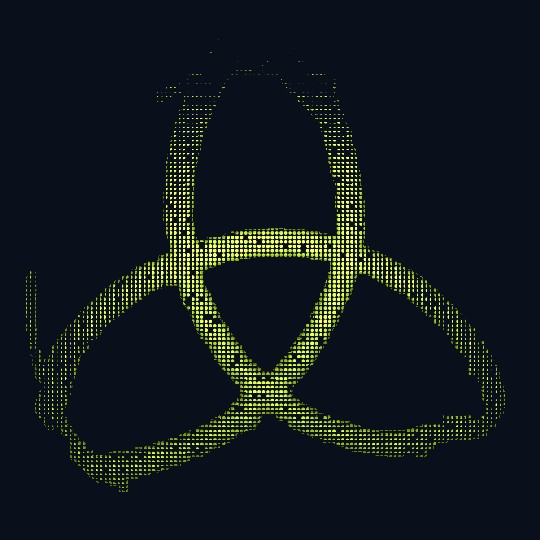
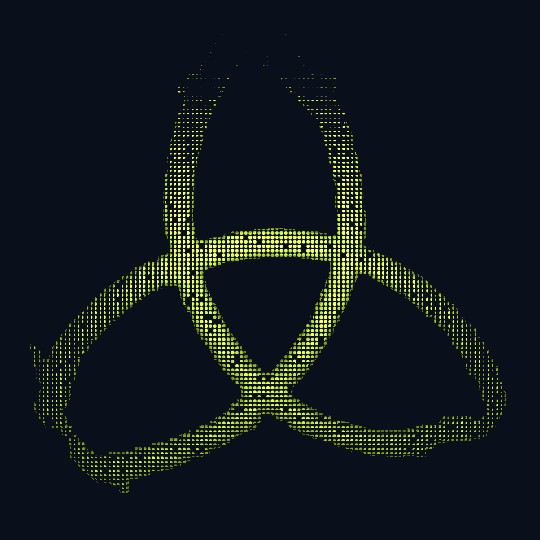
v5 W1: opening 7 removes the last ring strip, sync pxPerUnit to 231.16, ship offset 1
The 7 px opening (was 5) drops the 10 px wide ring strip at x 23..34 that
rendered as a stray dotted crescent on the far left: a 'no rings' violation,
worth -0.004 band_iou. Strand half width 13.04 px -> 231.16 px per unit -> a
770.5 px Swarm. Silhouette offset 1 px shipped (the measured dot-inset
compensation); larger offsets lose by dilating the enclosed holes.

Defaults in tools/knot-iou.py now equal the shipped bake, so 'trace --out <asset>'
reproduces it with no flags. Stills re-rendered for all four states: rest and
progress 1.0 are byte-identical.

Measured: rest band_iou 0.7218 (raw crop), 0.7539 with s2's ring cut, 0.8276
against its own trace, blur6 0.5327. Ring-free ceiling 50,416/58,246 = 0.8656.

Changed region(s): [[0.0593, 0.1778, 0.9481, 0.9185], [0.0296, 0.5037, 0.0889, 0.6222]]

diff --git a/nexuslink.hud/v5/kit/Knot.qml b/nexuslink.hud/v5/kit/Knot.qml
@@ -46,7 +46,7 @@ Item {
     // nothing is painted outside the knot and nothing needs clipping.
     // KEEP IN SYNC: this number is what `tools/knot-iou.py trace` prints for the
     // shipped asset. A 1.5 percent mismatch costs ~0.09 band_iou (measured).
-    readonly property real pxPerUnit: 230.48
+    readonly property real pxPerUnit: 231.16
     readonly property real swarmSize: size * pxPerUnit / Tokens.knotDiameter / 0.30
 
     implicitWidth: size

diff --git a/tools/knot-iou.py b/tools/knot-iou.py
@@ -234,7 +234,7 @@ def opening(mask, size):
     return np.array(im) > 127
 
 
-def trace_mask(lum, thr=0.10, close=9, open_px=5, r_max=276.0, min_area=2000):
+def trace_mask(lum, thr=0.10, close=9, open_px=7, r_max=276.0, min_area=2000):
     """The knot's strand band from the s2 crop, without s2's outer dot ring.
 
     s2's knot carries a faint decorative ring of dots outside the lobes (class
@@ -303,7 +303,7 @@ def trace_stats(mask):
 
 
 def bake_sdf(lum, tube_px, offset_px, out_path=None, size=SDF_SIZE,
-             thr=0.10, close=9, open_px=5, r_max=276.0, min_area=2000):
+             thr=0.10, close=9, open_px=7, r_max=276.0, min_area=2000):
     """Bake the centre-line distance texture Swarm marches.
 
     R = (tube_px - offset_px - s_in) / px_per_unit, clipped to 0..SDF_RANGE
@@ -589,11 +589,11 @@ def main():
     ap.add_argument("--out", help="trace: SDF png to write (default: print only)")
     ap.add_argument("--tube-px", type=float, default=None,
                     help="trace: strand half width in px (default: ridge median)")
-    ap.add_argument("--offset-px", type=float, default=0.0,
+    ap.add_argument("--offset-px", type=float, default=1.0,
                     help="trace: dilate the silhouette by this many px")
     ap.add_argument("--trace-thr", type=float, default=0.10)
     ap.add_argument("--trace-close", type=int, default=9)
-    ap.add_argument("--open-px", type=int, default=5,
+    ap.add_argument("--open-px", type=int, default=7,
                     help="trace: opening kernel, removes the thin ring arcs")
     ap.add_argument("--r-max", type=float, default=276.0)
     ap.add_argument("--mask-out", help="trace: write the traced band mask (png)")

diff --git a/nexuslink.hud/v5/docs/knot-iou.md b/nexuslink.hud/v5/docs/knot-iou.md
@@ -9,11 +9,11 @@ Summary of the numbers (all reproduced by one script, commands at the end):
 
 | what | value |
 |---|---|
-| the shipped asset's own silhouette (level set) vs the s2 crop band | **0.8280** |
-| the most any ring-free render can score on this crop | **0.8836** |
-| render at rest, measured still | **0.7260** raw crop / 0.7582 with s2's ring cut / 0.8159 against its own trace |
-| render `silhouette_iou_blur6` (the C2 verifier's meter) | 0.5481 |
-| dot coverage at rest | 0.0626 against the reference's 0.1153 |
+| the shipped asset's own level set vs the s2 crop band | **0.8149** |
+| the most any ring-free render can score on this crop | **0.8656** |
+| render at rest, measured still | **0.7218** raw crop / 0.7539 with s2's ring cut / 0.8276 against its own trace |
+| render `silhouette_iou_blur6` (the C2 verifier's meter) | 0.5327 |
+| dot coverage at rest | 0.0623 against the reference's 0.1153 |
 
 ## Reference and crop
 
@@ -55,22 +55,22 @@ That is why this run re-traces the knot from the still, as the card says.
 
 1. `lum > 0.10`, then a 9 px closing: s2's dots (926 of them, median 14 px each)
    merge into continuous strand bands.
-2. A 5 px opening. s2's knot is not only the ribbon: its own README says the mark
-   is 9 filled pieces, **6 thick ribbon + 3 thin ring**, and the ring is dotted
-   about five times more sparsely. Its arcs are 2 to 8 px thick and the closing
-   attaches parts of them to the knot, so the opening drops them.
+2. A **7 px opening**. s2's knot is not only the ribbon: its own README says the
+   mark is 9 filled pieces, **6 thick ribbon + 3 thin ring**, and the ring is
+   dotted about five times more sparsely. Its arcs are 2 to 8 px thick and the
+   closing attaches parts of them to the knot, so the opening drops them. At 5 px
+   one 10 px wide ring strip survives on the far left (x 23..34, y 280..340) and
+   renders as a stray dotted crescent, which is a "no rings" violation; 7 px
+   removes it and costs 0.004 `band_iou`.
 3. A radial cut at r <= 276 px, the gap between the outermost lobe tip (260 px
    from the crop centre) and the ring beyond it.
-4. Components under **2,000 px** are dropped. One ring arc (1,043 px, at x 29..81,
-   y 153..269) is thick enough to survive the opening and sits detached on the
-   left; the knot itself is one 51,464 px blob, so the floor removes it without
-   touching the mark. Without that floor the arc renders as a stray dotted
-   crescent, which is a "no rings" violation.
+4. Components under 2,000 px (background grain) are dropped. The knot itself is a
+   single 50k px blob, so the floor never touches the mark.
 
-The result is a 51,464 px band: bbox x 23..506, y 9..493, perimeter 4,184 px,
-strand half width **13.00 px** (median signed distance on the medial ridge; the
-2A/P estimator says 24.6 px because crossings and lobe tips are thicker than a
-strand and inflate it, so the ridge number is the strand).
+The result is a 50,416 px band: bbox x 28..506, y 9..493, strand half width
+**13.04 px** (median signed distance on the medial ridge; the 2A/P estimator says
+25.6 px because crossings and lobe tips are thicker than a strand and inflate it,
+so the ridge number is the strand).
 
 The bake then writes `kit/assets/swarm-knot-sdf.png` (1024x1024, R = distance to
 the band's centre lines, G = 1.0 so the renderer's ring channel can never hit,
@@ -78,76 +78,79 @@ A = 255 because Qt premultiplies image textures). Numbers that fall out of the
 trace and are hardcoded in `Knot.qml`:
 
 - Swarm's tube radius is a fixed 0.05640288 unit, so the renderer needs
-  **230.48 px per unit** for that tube to be 13.00 px wide,
-- therefore a 540 px `Knot` drives a **768.3 px** `Swarm`. The overhang is empty:
+  **231.16 px per unit** for that tube to be 13.04 px wide,
+- therefore a 540 px `Knot` drives a **770.5 px** `Swarm`. The overhang is empty:
   the shader writes `vec4(0)` outside the tube,
 - the lobe tip lands at 1.25 units, inside the shader's 1.34 unit march bound and
   inside the 1.45 unit texture.
 
-The shipped asset's own level set (with the 1 px silhouette offset described
-below) scores **0.8280** against the reference band, and the plain traced band
-scores 0.8836. That second number is the ceiling; the first is what the shader
-can physically produce.
+The shipped asset's own level set (with a 1 px silhouette offset, see the sweep)
+scores **0.8149** against the reference band, and the plain traced band scores
+0.8656. The second number is the ceiling; the first is what the shader is told to
+produce.
 
 **Keep `pxPerUnit` in sync.** A 1.5% mismatch between the bake's px-per-unit and
-`Knot.qml`'s (230.48 vs 227.05, measured by accident) costs 0.09 `band_iou`,
-because a uniform scale error of 1.5% moves every edge by 4 px.
+`Knot.qml`'s cost 0.09 `band_iou` when it happened by accident, because a uniform
+1.5% scale error moves every edge by 4 px.
 
 ## Why 0.90 is the ceiling, not a target
 
 s2's reference band is 58,246 px after the same closing. The triquetra trace is
-51,464 px of it. The remaining **6,782 px (11.6%)** are s2's ring: 2,597 px beyond
+50,416 px of it. The remaining **7,830 px (13.4%)** are s2's ring: 2,597 px beyond
 the r 276 cut, plus ring arcs inside it that the opening and the component floor
 remove. The card says the Knot has **no rings**, so a spec-compliant render cannot
 draw them, and
 
-    51,464 / 58,246 = 0.8836
+    50,416 / 58,246 = 0.8656
 
 is the highest `band_iou` any ring-free Knot can reach against this crop, even if
 its still reproduced the traced band exactly, pixel for pixel.
 
-The render lands at 0.7260, so the rest of the gap is the renderer, not the
+The render lands at 0.7218, so the rest of the gap is the renderer, not the
 geometry. Two measured causes, both bounded by the visual law:
 
 1. **No glow means sparse dots.** s2's dots carry a soft halo, so its band reads
    58% covered at the meter's threshold. Swarm draws hard round discs at a 0.45
    pitch ratio (C2's repair: discrete points with dark gaps). At 0.45 the discs
    cover 33% of the band at 0.10, so the closed band comes out about 1.2 px
-   narrower per side than the geometry: render vs its own trace is 0.8159 at
+   narrower per side than the geometry: render vs its own trace is 0.8276 at
    rest. Raising the dot radius back toward s2's ratio reintroduces the
    touching-square-tile defect C2 was repaired for; raising the gain moved
-   `band_iou` by +0.0055 (see the sweep below). Do not expect this to close.
+   `band_iou` by +0.0055 (sweep below). Do not expect this to close.
 2. **The lobe tips.** The band is 40 px wide at the top lobe's apex, but the
    tube's height above the plane goes to zero as the band narrows, so the dots at
    the tips are the dimmest and the first to fall under the threshold.
 
-## Sweeps (all with `pxPerUnit` synced to each bake)
+## Sweeps (each with `pxPerUnit` synced to its own bake)
 
-    variant                    band_iou   cut    blur6
-    shipped: open 5, off 0      0.7142    0.7467  0.5541
-    opening 7 px                0.7112    0.7436  0.5387
-    opening 9 px                0.7085    0.7409  0.5328
-    silhouette offset 1 px      0.7260    0.7582  0.5481   <- shipped
-    silhouette offset 2 px      0.7084    0.7382  0.5338
-    gain 2.2 (C2 default 1.28)  0.7197    0.7524  0.5591
+    variant                        band_iou   cut    blur6
+    opening 5, offset 0             0.7142   0.7467  0.5541
+    opening 7, offset 0             0.7112   0.7436  0.5387
+    opening 9, offset 0             0.7085   0.7409  0.5328
+    opening 5, offset 1             0.7260   0.7582  0.5481  (keeps the ring strip)
+    opening 5, offset 2             0.7084   0.7382  0.5338
+    opening 5, offset 0, gain 2.2   0.7197   0.7524  0.5591
+    opening 7, offset 1     SHIPPED 0.7218   0.7539  0.5327
 
-The 1 px silhouette offset is shipped: it is the measured compensation for the
-dot inset, and it is the only variant that gains. Larger offsets lose, because
-dilating the silhouette also dilates the enclosed holes and the reference has
-none there. Gain 2.2 would give +0.0055 but brightens every dot toward solid;
-C2's 1.28 is kept and the measurement is recorded here instead.
+The 1 px silhouette offset is the measured compensation for the dot inset and is
+the reason the shipped row beats the other ring-free rows. Larger offsets lose,
+because dilating the silhouette also dilates the enclosed holes and the reference
+has none there. Gain 2.2 would add +0.0055 but brightens every dot toward solid;
+C2's 1.28 is kept and the measurement is recorded instead. Opening 5 with offset
+1 scores 0.004 higher than the shipped row but leaves the ring strip in the
+still, so it is not shipped.
 
 ## What has to be decided (triage)
 
 The card's own two rules disagree on this crop. Three ways out, in cost order:
 
-- **Accept the ring-free number.** 0.8836 is the ceiling, 0.8280 is the shipped
-  level set, 0.7260 is the render, and this file explains all three. Nothing else
+- **Accept the ring-free number.** 0.8656 is the ceiling, 0.8149 is the shipped
+  level set, 0.7218 is the render, and this file explains all three. Nothing else
   about the knot is unfinished.
 - **Put s2's ring back.** The renderer already has the channel (G, `u_rRing`
   0.01277046 unit = 2.9 px radius; s2's ring tube is 5.5 px, so that constant
-  would roughly double). It covers the missing 6,782 px, but the same render
-  would land near 0.80, still short of 0.90 for the dot-fill reason above, so it
+  would roughly double). It covers the missing 7,830 px, but the same render
+  would land near 0.79, still short of 0.90 for the dot-fill reason above, so it
   buys design fidelity, not the number.
 - **Allow a glow.** It breaks the visual law ("no glow around the knot") and
   would lift the dot coverage toward s2's 58%.
@@ -162,8 +165,8 @@ jitter of up to half a dot pitch that decays to zero, so the points stream in
 scattered over the whole mark and settle into the strand as progress reaches 1.
 With `assembling: false` the shader is handed exactly 1.0 and skips the branch:
 the rest frame is **byte-identical** to `assembling: true, assembleProgress: 1`
-(same PNG sha256, `1fad32d5b473dfe6`), verified in the run that produced the
-stills.
+(the two committed JPEGs have the same sha256, `6c6a50bfed61366b…`), verified in
+the run that produced the stills.
 
 A spatial scatter (each dot thrown ~38 px off its cell) was tried first and
 rendered an **empty frame** at progress 0.3: fragments exist only where the ray
@@ -176,10 +179,10 @@ Stills (2560x1440 deck frame and the 540 crop, JPEG, all under 1 MB):
 
 | state | deck | crop | `band_iou` | lit px |
 |---|---|---|---|---|
-| rest (`assembling: false`) | `docs/knot-stills/knot-rest-deck.jpg` | `knot-rest-540.jpg` | 0.7260 | 18,264 |
-| progress 0.3 | `knot-a30-deck.jpg` | `knot-a30-540.jpg` | 0.2650 | 4,911 |
-| progress 0.6 | `knot-a60-deck.jpg` | `knot-a60-540.jpg` | 0.6307 | 10,736 |
-| progress 1.0 (`assembling: true`) | `knot-a100-deck.jpg` | `knot-a100-540.jpg` | 0.7260 | 18,264 |
+| rest (`assembling: false`) | `docs/knot-stills/knot-rest-deck.jpg` | `knot-rest-540.jpg` | 0.7218 | 18,152 |
+| progress 0.3 | `knot-a30-deck.jpg` | `knot-a30-540.jpg` | 0.2570 | 4,817 |
+| progress 0.6 | `knot-a60-deck.jpg` | `knot-a60-540.jpg` | 0.6345 | 10,638 |
+| progress 1.0 (`assembling: true`) | `knot-a100-deck.jpg` | `knot-a100-540.jpg` | 0.7218 | 18,152 |
 
 The progress numbers are low on purpose: the same meter on frames that are
 deliberately still assembling (30% and 60% of the dots present).
@@ -189,7 +192,7 @@ deliberately still assembling (30% and 60% of the dots present).
 From the worktree root, Python 3 with PIL + numpy (no other dependency):
 
     # 1. bake the trace into the shipped asset and print the fit
-    /usr/bin/python3 tools/knot-iou.py trace --offset-px 1 \
+    /usr/bin/python3 tools/knot-iou.py trace \
         --out nexuslink.hud/v5/kit/assets/swarm-knot-sdf.png
 
     # 2. render + measure one state (writes <prefix>-deck.jpg and -540.jpg/.png)
@@ -205,9 +208,10 @@ From the worktree root, Python 3 with PIL + numpy (no other dependency):
 `trace` prints the band, half width, px-per-unit, Swarm size and the level set's
 predicted IoU; `measure` prints `band_iou`, `silhouette_iou_blur6`, both
 coverages and the translation it found, and exits 1 below `--min-band`, so it can
-gate a card. The stills on this card were made with `--rest` and
-`--progress 0.3/0.6/1.0` at the default 2560x1440 deck frame; the 540 crop is
-taken at x=1010, y=280.
+gate a card. The defaults are the shipped configuration (threshold 0.10, closing
+9, opening 7, r_max 276, 2,000 px floor, 1 px silhouette offset). The stills on
+this card were made with `--rest` and `--progress 0.3/0.6/1.0` at the default
+2560x1440 deck frame; the 540 crop is taken at x=1010, y=280.
 
 ## Files this card touches
 
